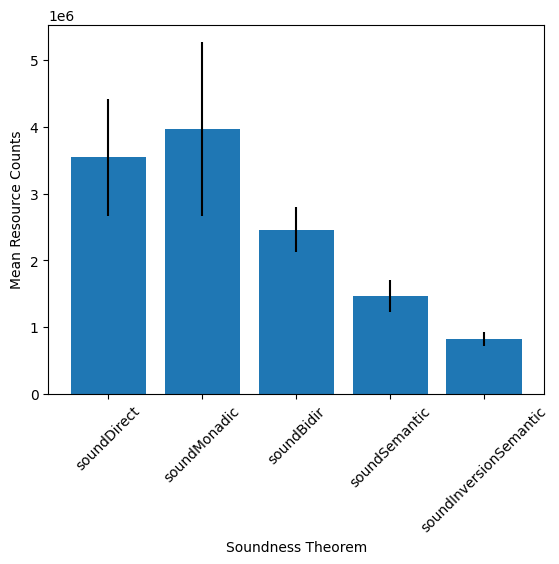
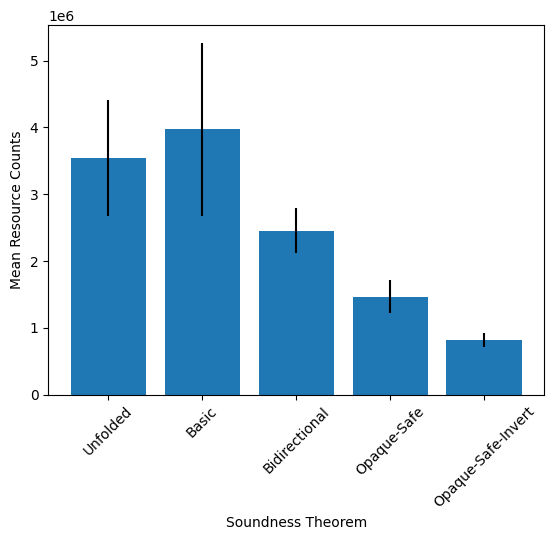
updates

Changed region(s): [[0.0, 0.0, 0.9819, 0.9481], [0.3989, 0.9481, 0.6751, 0.9778], [0.4603, 0.8593, 0.491, 0.8889]]

diff --git a/paper/paper.tex b/paper/paper.tex
@@ -73,7 +73,6 @@ developments, Dafny serves both as the host language in which the target
 language can be implemented, and a program verifier in which the mechanized
 proof can be completed.
 
-\jwc{Put the math on a different line: let it breathe. De-convolve the sentences.}
 The usual way that a target language semantics is implemented in Dafny
 is by way of a definitional interpreter \cite{definitional-interpreters}, a function \texttt{eval} which takes an
 an abstract syntax tree \texttt{e} which represents a term in the target language, and returns either an error,
@@ -105,7 +104,6 @@ cases.  This can make it hard to ensure that the proof is \emph{stable}.  Unlike
 mechanized metatheory developments in tools backed by a type-theoretic proof
 checker, Dafny's SMT-backed verification can be \emph{unstable}: the result of
 verifying the type soundness theorem can change, from verified to unverified, seemingly at random. 
-% \jwc{Jump up and down more about this! The solver may fail, sporadically, without warning. this is catastrophic}
 Unfortunately, folowing the proof structure described above leads to very unstable proofs in Dafny. Anecdotally, we have
 found it impossible to scale this kind of proof to anything approximating a realistic language without encountering enormous
 proof instability barriers.
@@ -412,15 +410,6 @@ This gives us the final recipe for our technique:
 \end{enumerate}
 
 
-% \jwc{This makes the type safety proof completely generic to the implementation
-% of the typecheker and evaluator. You can chance the way they're implemented, add
-% new cases, do any number of refactors. If you fixup the compatibility and
-% iversion lemmas, you're good to go. As we'll see in the next section, it also
-% makes the proofs vary way less.}
-
-
-
-
 \section{Evaluation}
 \label{sec:eval}
 In this section, we demonstrate empirically that our technique as described in Section~\ref{sec:sts}
@@ -435,28 +424,27 @@ to prove the VCs --- varies between runs.
 We evaluate five different typecheckers and type soundness proofs for the same
 language to compare their proof stability.  The code for these typecheckers, proofs, and the language's evaluator, can be found in
 the supplementary materials. The five different typecheckers, as well as the contents of the rest of the files, are described below.
-\jwc{Give these better names}
 
 \begin{itemize}
   \item (\texttt{lang.dfy}): The langauge and type definitions, common to all typecheckers and the evaluator.
   \item (\texttt{eval.dfy}): Contains the evaluator for our expressiong language. All of the type soundness proofs are relative to this evaluator.
-  \item (\texttt{monadic.dfy}): This is the typechecker and type safety proof described in
+  \item (\texttt{basic.dfy}): This is the typechecker and type safety proof described in
   the first part of Section~\ref{sec:sts}.  The typechecker uses one main method
   \texttt{infer} and some helper functions to infer a type for a term, and then checks
   that it's equal to the given type.
-  \item (\texttt{direct}): This is the same as the typechecker in \texttt{monadic.dfy}, with all of the
+  \item (\texttt{unfolded.dfy}): This is the same as the typechecker in \texttt{basic.dfy}, with all of the
   syntactic sugar for \texttt{Result}-binds (\texttt{:-}) unfolded, and all of the helper
   functions inlined. We include this file to measure the degree to which adding
-  layers of abstraction hurts proof stability. The proof is essentially the same as the one in \texttt{monadic.dfy}.
-  \item (\texttt{bidirectional.dfy}): This typechecker is written in the same style as the typechecker in \texttt{monadic.dfy}. The typing relation that it impelents is slightly different,
+  layers of abstraction hurts proof stability. The proof is essentially the same as the one in \texttt{basic.dfy}.
+  \item (\texttt{bidirectional.dfy}): This typechecker is written in the same style as the typechecker in \texttt{basic.dfy}. The typing relation that it impelents is slightly different,
         however, including a subtyping rule which implements record width and depth subtyping.
         The type soundness proof changes to include calls to reflexivity and transitivity lemmas about subtyping, which cannot be inferred by the solver.
-  \item (\texttt{semantic.dfy}):
+  \item (\texttt{opaque-safe.dfy}):
         This file implements the first half of our technique, making the safety
         property opaque, proving compatability lemmas about the evaluator, and
         calling them in the soundness proof.  The typechecker is identical to
         the one in \texttt{bidirectional.dfy}.
-  \item (\texttt{semantic-invert.dfy}): This file implements the full stabilizing technique, adding
+  \item (\texttt{opaque-safe-invert.dfy}): This file implements the full stabilizing technique, adding
   \item (\texttt{std.dfy} and \texttt{util.dfy}): Auxiliary functions and definitions not specific to the language's evaluator or typechecker.
 \end{itemize}
 
@@ -471,13 +459,13 @@ The experiments were run on a 2023 MacBook Pro with an Apple Silicon M2 processo
 \subsection*{Results}
 The graph in Figure~\ref{fig:cost-results} shows the mean verification \emph{resource usage} (and standard deviation, with whiskers), over the 250 verifications of each soundness theorem,
 while the graph in Figure~\ref{fig:dur-results} shows verification \emph{durations}, in miliseconds. The two graphs tell essentially the same story.
-The highest cost and highest variance proof in all cases is the soundness proof for the typechecker in \texttt{monadic.dfy}. It strikes an unforuntate balance of being complicated code --- heavy use of monadic bind and lots of helper functions --- with little guidance in the proof.
-The typechecker in \texttt{direct.dfy} is slightly cheaper to verify than the one in \texttt{monadic.dfy}, but it still has enormous variance. The cost seems to be lower because of all of the inlined definitions,
+The highest cost and highest variance proof in all cases is the soundness proof for the typechecker in \texttt{basic.dfy}. It strikes an unforuntate balance of being complicated code --- heavy use of monadic bind and lots of helper functions --- with little guidance in the proof.
+The typechecker in \texttt{unfolded.dfy} is slightly cheaper to verify than the one in \texttt{basic.dfy}, but it still has enormous variance. The cost seems to be lower because of all of the inlined definitions,
 meaning that the verifier must reason about fewer functions while proving soundness.
 The proof for the typechecker in \texttt{bidirectional.dfy} is cheaper and has lower variance than either of the previous two. This may be because while the bidirectionality increases the complexity of the typechecking algorithm,
 this complexity \emph{requires} further guidance to the verifier for it to accept the proof at all, thereby improving stability on the whole.
 As expected, the two proofs using the first and second halves of our technique
-are by far the best. The soundness theorem using the fully specified typechecker and safety property (\texttt{semantic-invert.dfy})
+are by far the best. The soundness theorem using the fully specified typechecker and safety property (\texttt{opaque-safe-invert.dfy})
 is the best of all, with negligable variance in resource usage between runs of the verifier.
 
 \begin{figure}
